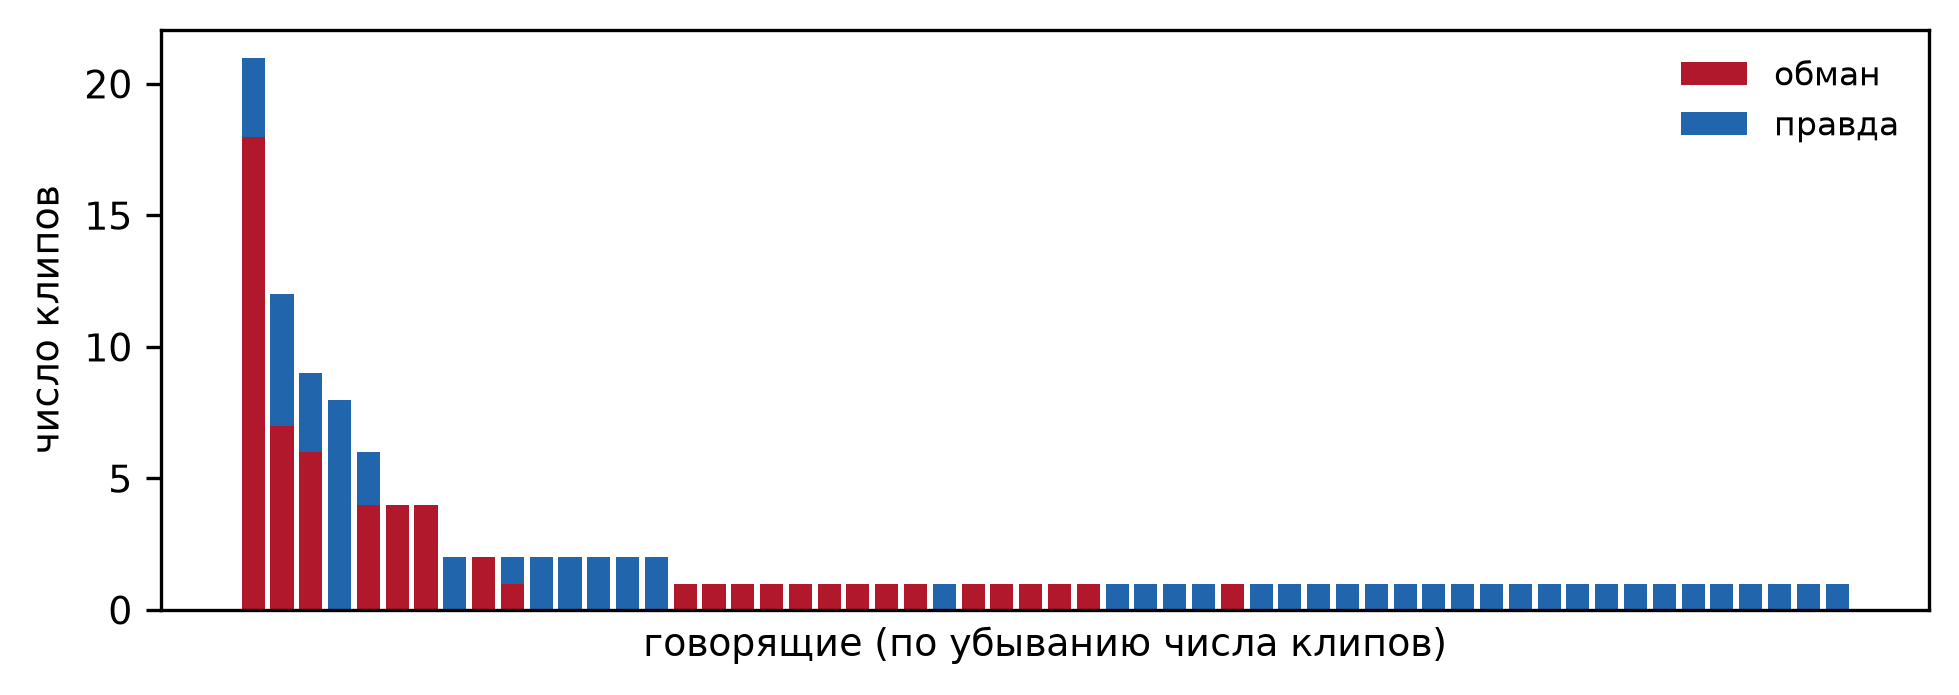
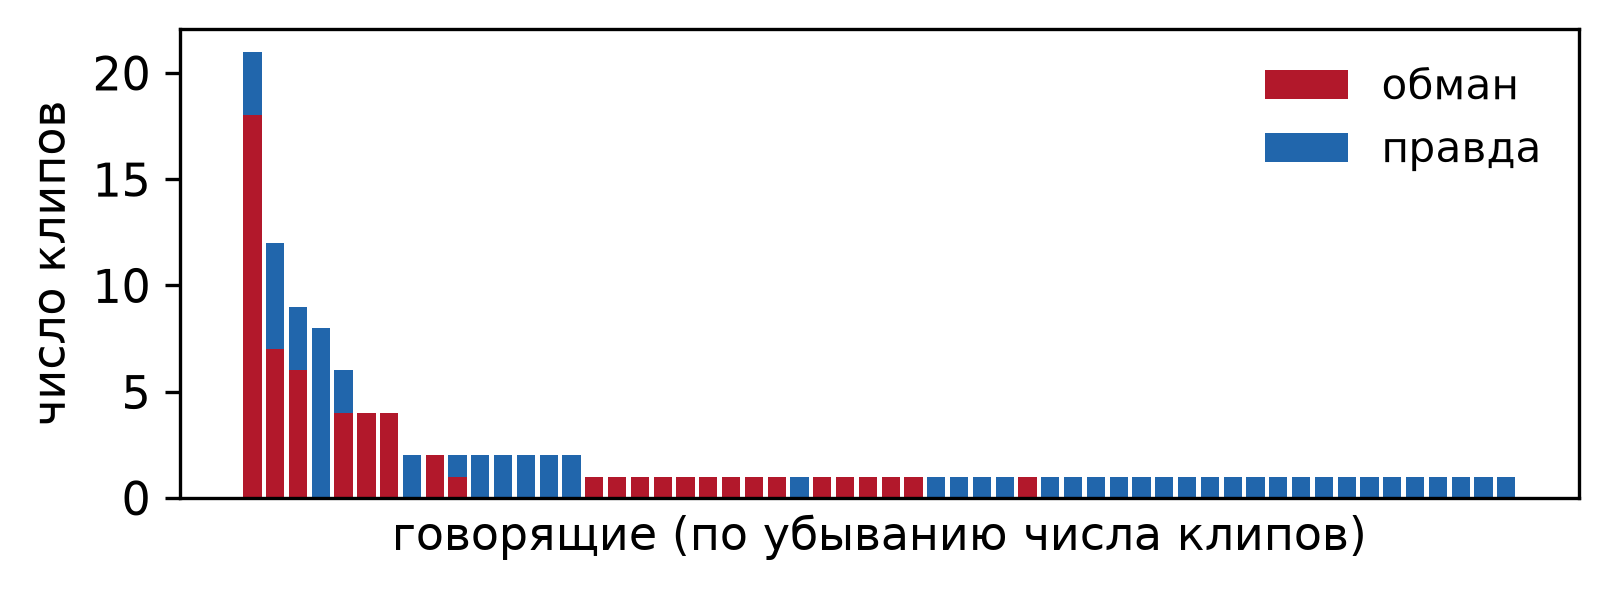
Figure 1: larger fonts for print readability

Changed region(s): [[0.0, 0.0305, 0.9944, 0.9442], [0.7769, 0.2132, 0.839, 0.2741]]

diff --git a/src/figures.py b/src/figures.py
@@ -92,14 +92,16 @@ def main():
     g = pd.read_csv(res / "audit/clips_per_speaker.csv").sort_values("count", ascending=False)
     g["lie"] = (g["count"] * g["mean"]).round().astype(int)
     g["truth"] = g["count"] - g["lie"]
-    fig, ax = plt.subplots(figsize=(6.6, 2.4))
+    # размер 1:1 со вставкой в статью (14 см), шрифт ≥ 10 пт в печати
+    plt.rcParams.update({"font.size": 11})
+    fig, ax = plt.subplots(figsize=(5.5, 2.1))
     x = np.arange(len(g))
     ax.bar(x, g["lie"], color="#b2182b", label="обман")
     ax.bar(x, g["truth"], bottom=g["lie"], color="#2166ac", label="правда")
     ax.set_xlabel("говорящие (по убыванию числа клипов)")
     ax.set_ylabel("число клипов")
     ax.set_xticks([])
-    ax.legend(frameon=False, fontsize=8)
+    ax.legend(frameon=False, fontsize=10)
     fig.tight_layout()
     fig.savefig(out / "fig_clips_per_speaker.png", dpi=300, bbox_inches="tight")
     plt.close(fig)
